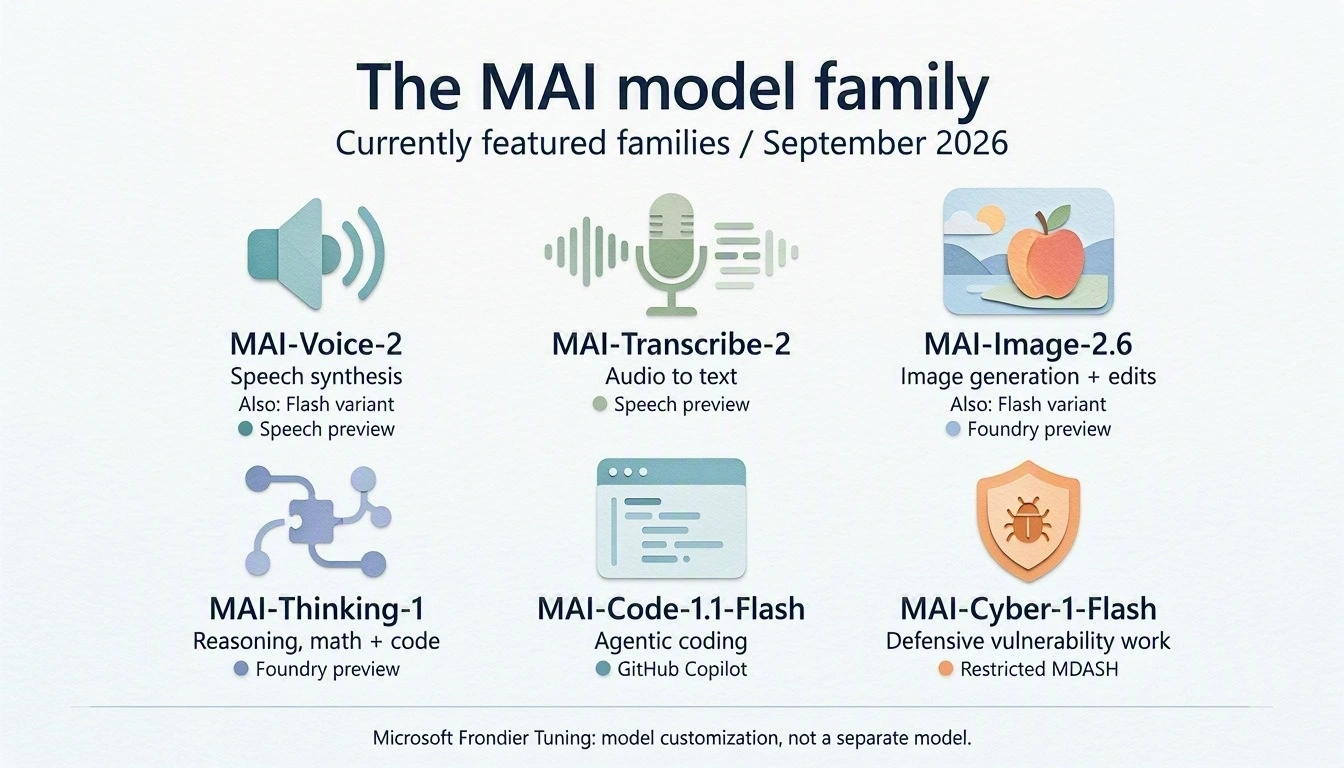
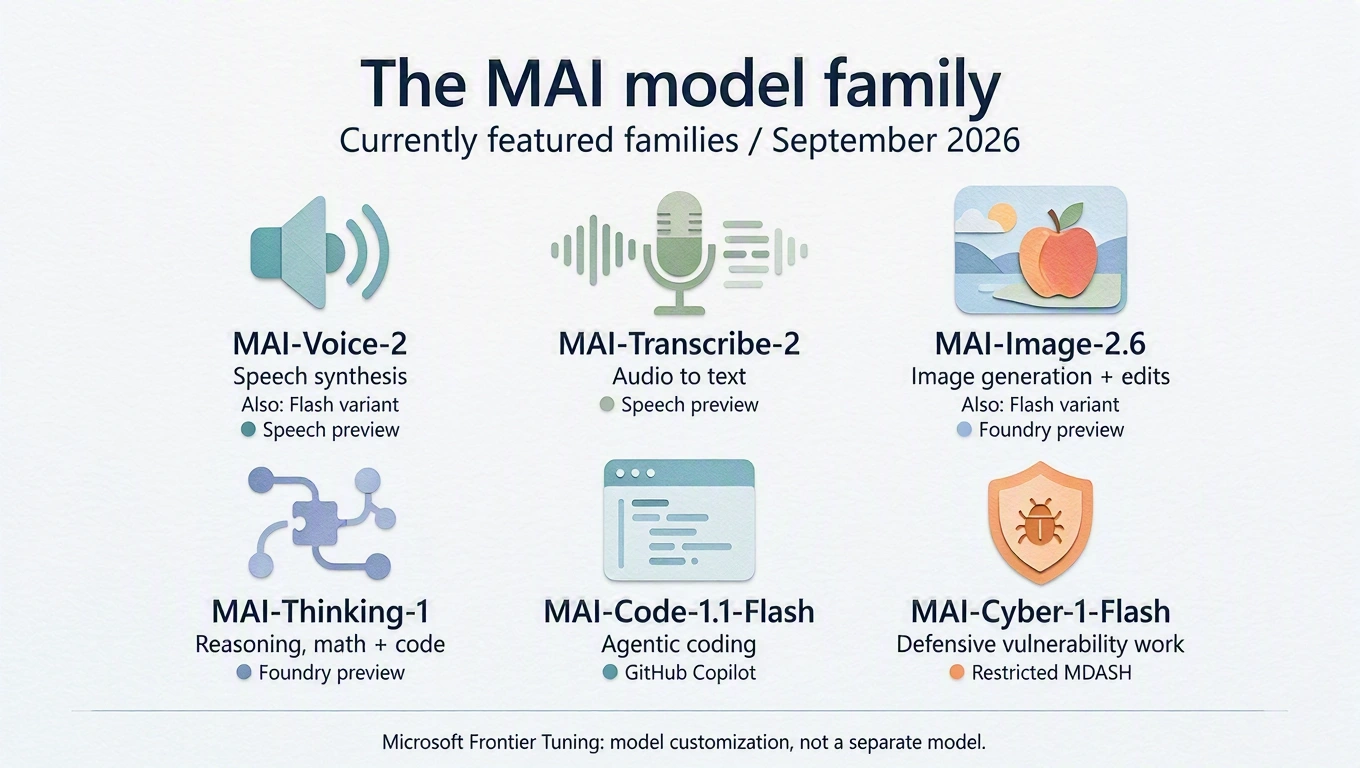
Correct the rendered Frontier label and audit diagram text
Use a focused MAI reference edit to fix the family footer, rescan all final WebP pixels with OCR spelling correction disabled, bind the audit to asset hashes, and refresh the image URL to avoid stale cached lettering.

Copilot-Session: 7635b4a5-2f49-4b08-bf87-30ecf788821b

diff --git a/tests/test_publication.py b/tests/test_publication.py
@@ -212,3 +212,42 @@ def test_comparison_price_math_and_unverified_totals():
     assert "model-specific tariff not verified" in text
     assert "record cost as **unverified** rather than ranking it." in text
     assert "not measured app runs" in text
+
+
+def test_observed_diagram_text_is_bound_to_final_image_bytes():
+    root = ROOT / "docs/assets/diagrams"
+    provenance = json.loads((root / "provenance.json").read_text())
+    audit = json.loads((root / provenance["text_audit"]).read_text())
+    assert audit["language_correction"] is False
+    records = {row["file"]: row for row in audit["images"]}
+    assert set(records) == {row["file"] for row in provenance["images"]}
+    for image in provenance["images"]:
+        observed = records[image["file"]]
+        assert observed["sha256"] == image["sha256"]
+        assert observed["sha256"] == hashlib.sha256((root / image["file"]).read_bytes()).hexdigest()
+        assert (observed["width"], observed["height"]) == (image["width"], image["height"])
+        assert "frondier" not in " ".join(observed["observed_lines"]).lower()
+
+    family = "\n".join(records["mai-family.webp"]["observed_lines"])
+    assert "Microsoft Frontier Tuning: model customization, not a separate model." in family
+    family_url = f"assets/diagrams/mai-family.webp?v={records['mai-family.webp']['sha256'][:8]}"
+    assert (ROOT / "docs/compare-models.md").read_text().count(family_url) == 2
+    for name in ("MAI-Voice-2", "MAI-Transcribe-2", "MAI-Image-2.6",
+                 "MAI-Thinking-1", "MAI-Code-1.1-Flash", "MAI-Cyber-1-Flash"):
+        assert name in family
+    assert family.count("Foundry preview") == 2
+    assert family.count("Speech preview") == 2
+    assert "GitHub Copilot" in family and "Restricted MDASH" in family
+    loop = records["request-loop.webp"]["observed_lines"]
+    assert loop.count("Request") == loop.count("Response") == 3
+    audio = records["audio-path.webp"]["observed_lines"]
+    assert all(text in audio for text in ("MediaRecorder", "16 kHz / mono", "16-bit PCM", "MAI-Transcribe-2"))
+    matching = records["answer-matching.webp"]["observed_lines"]
+    assert matching.count("Normalize") == 2
+    assert "JavaScript in the browser / no model call" in matching
+    image_flow = records["image-flow.webp"]["observed_lines"]
+    assert all(text in image_flow for text in ("base64 PNG", "Decode in Flask", "1024 x 1024 source"))
+    mapping = "\n".join(records["feature-model-map.webp"]["observed_lines"])
+    for name in ("MAI-Voice-2-Flash", "MAI-Transcribe-2", "MAI-Image-2.6-Flash", "MAI-Thinking-1"):
+        assert name in mapping
+    assert "JavaScript / no model" in mapping

diff --git a/docs/compare-models.md b/docs/compare-models.md
@@ -5,9 +5,9 @@ The [app's feature map](index.md#which-models-you-use) shows its four model choi
 
 ## The MAI family
 
-![Six featured MAI families: Voice for speech synthesis, Transcribe for audio to text, Image for generation and edits, Thinking for reasoning, Code for agentic coding through Copilot, and Cyber for defensive work through restricted MDASH. Frontier Tuning customizes models.](assets/diagrams/mai-family.webp){ width="960" height="549" loading="lazy" }
+![Six featured MAI families: Voice for speech synthesis, Transcribe for audio to text, Image for generation and edits, Thinking for reasoning, Code for agentic coding through Copilot, and Cyber for defensive work through restricted MDASH. Frontier Tuning customizes models.](assets/diagrams/mai-family.webp?v=e4e10e56){ width="960" height="542" loading="lazy" }
 
-*MAI-generated diagram. [Full size](assets/diagrams/mai-family.webp) · [Prompts and revisions](assets/diagrams/provenance.json).*
+*MAI-generated diagram. [Full size](assets/diagrams/mai-family.webp?v=e4e10e56) · [Prompts and revisions](assets/diagrams/provenance.json).*
 
 These are the [currently featured families](https://microsoft.ai/models/),
 checked **18 September 2026**, not every historical version.
